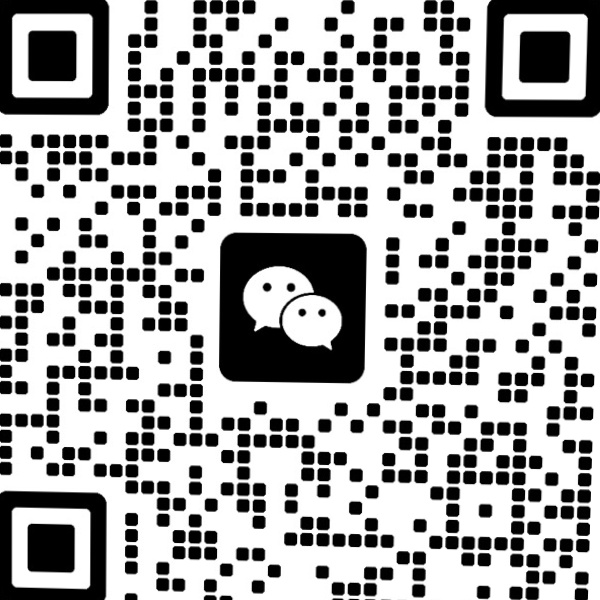
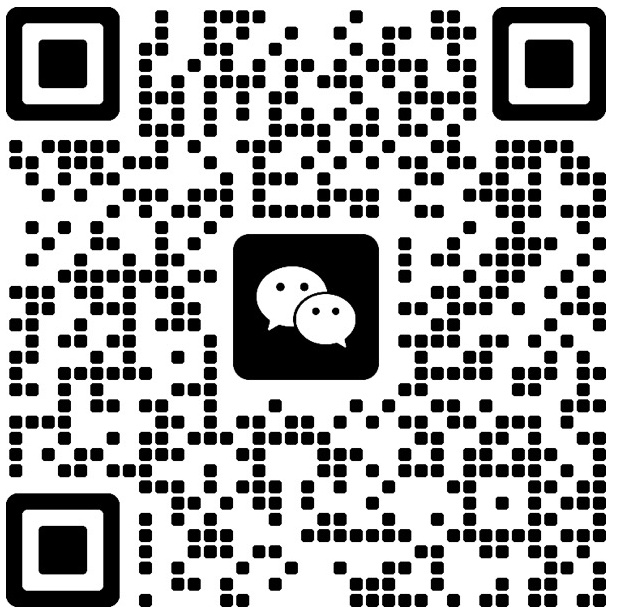
Make WeChat QR scannable: clean crop and full-size open

diff --git a/assets/css/media.css b/assets/css/media.css
@@ -87,7 +87,7 @@
   .media-close:hover { border-color: var(--accent); color: var(--accent); background: var(--accent-soft); }
   .media-stage { position: relative; flex: 1 1 auto; min-height: 0; background: #000; }
   .media-stage video, .media-stage iframe { position: absolute; inset: 0; width: 100%; height: 100%; border: 0; background: #000; object-fit: contain; }
-  .media-stage img.media-still { position: absolute; inset: 0; width: 100%; height: 100%; object-fit: contain; padding: 14px; background: #000; }
+  .media-stage img.media-still { position: absolute; inset: 0; width: 100%; height: 100%; object-fit: contain; padding: 14px; background: #000; cursor: zoom-in; }
   .resize-handle { position: absolute; z-index: 4; opacity: 0; transition: opacity .18s ease, background .18s ease; }
   .media-window:hover .resize-handle { opacity: 1; }
   .resize-n, .resize-s { left: 10px; right: 10px; height: 7px; cursor: ns-resize; }

diff --git a/assets/js/media-windows.js b/assets/js/media-windows.js
@@ -255,6 +255,10 @@
           img.src = sourceImg;
           img.alt = titleFor(frame);
           img.className = 'media-still';
+          img.title = 'Click to open full size';
+          img.addEventListener('click', function () {
+            window.open(sourceImg, '_blank', 'noopener,noreferrer');
+          });
           stage.appendChild(img);
         }
 
